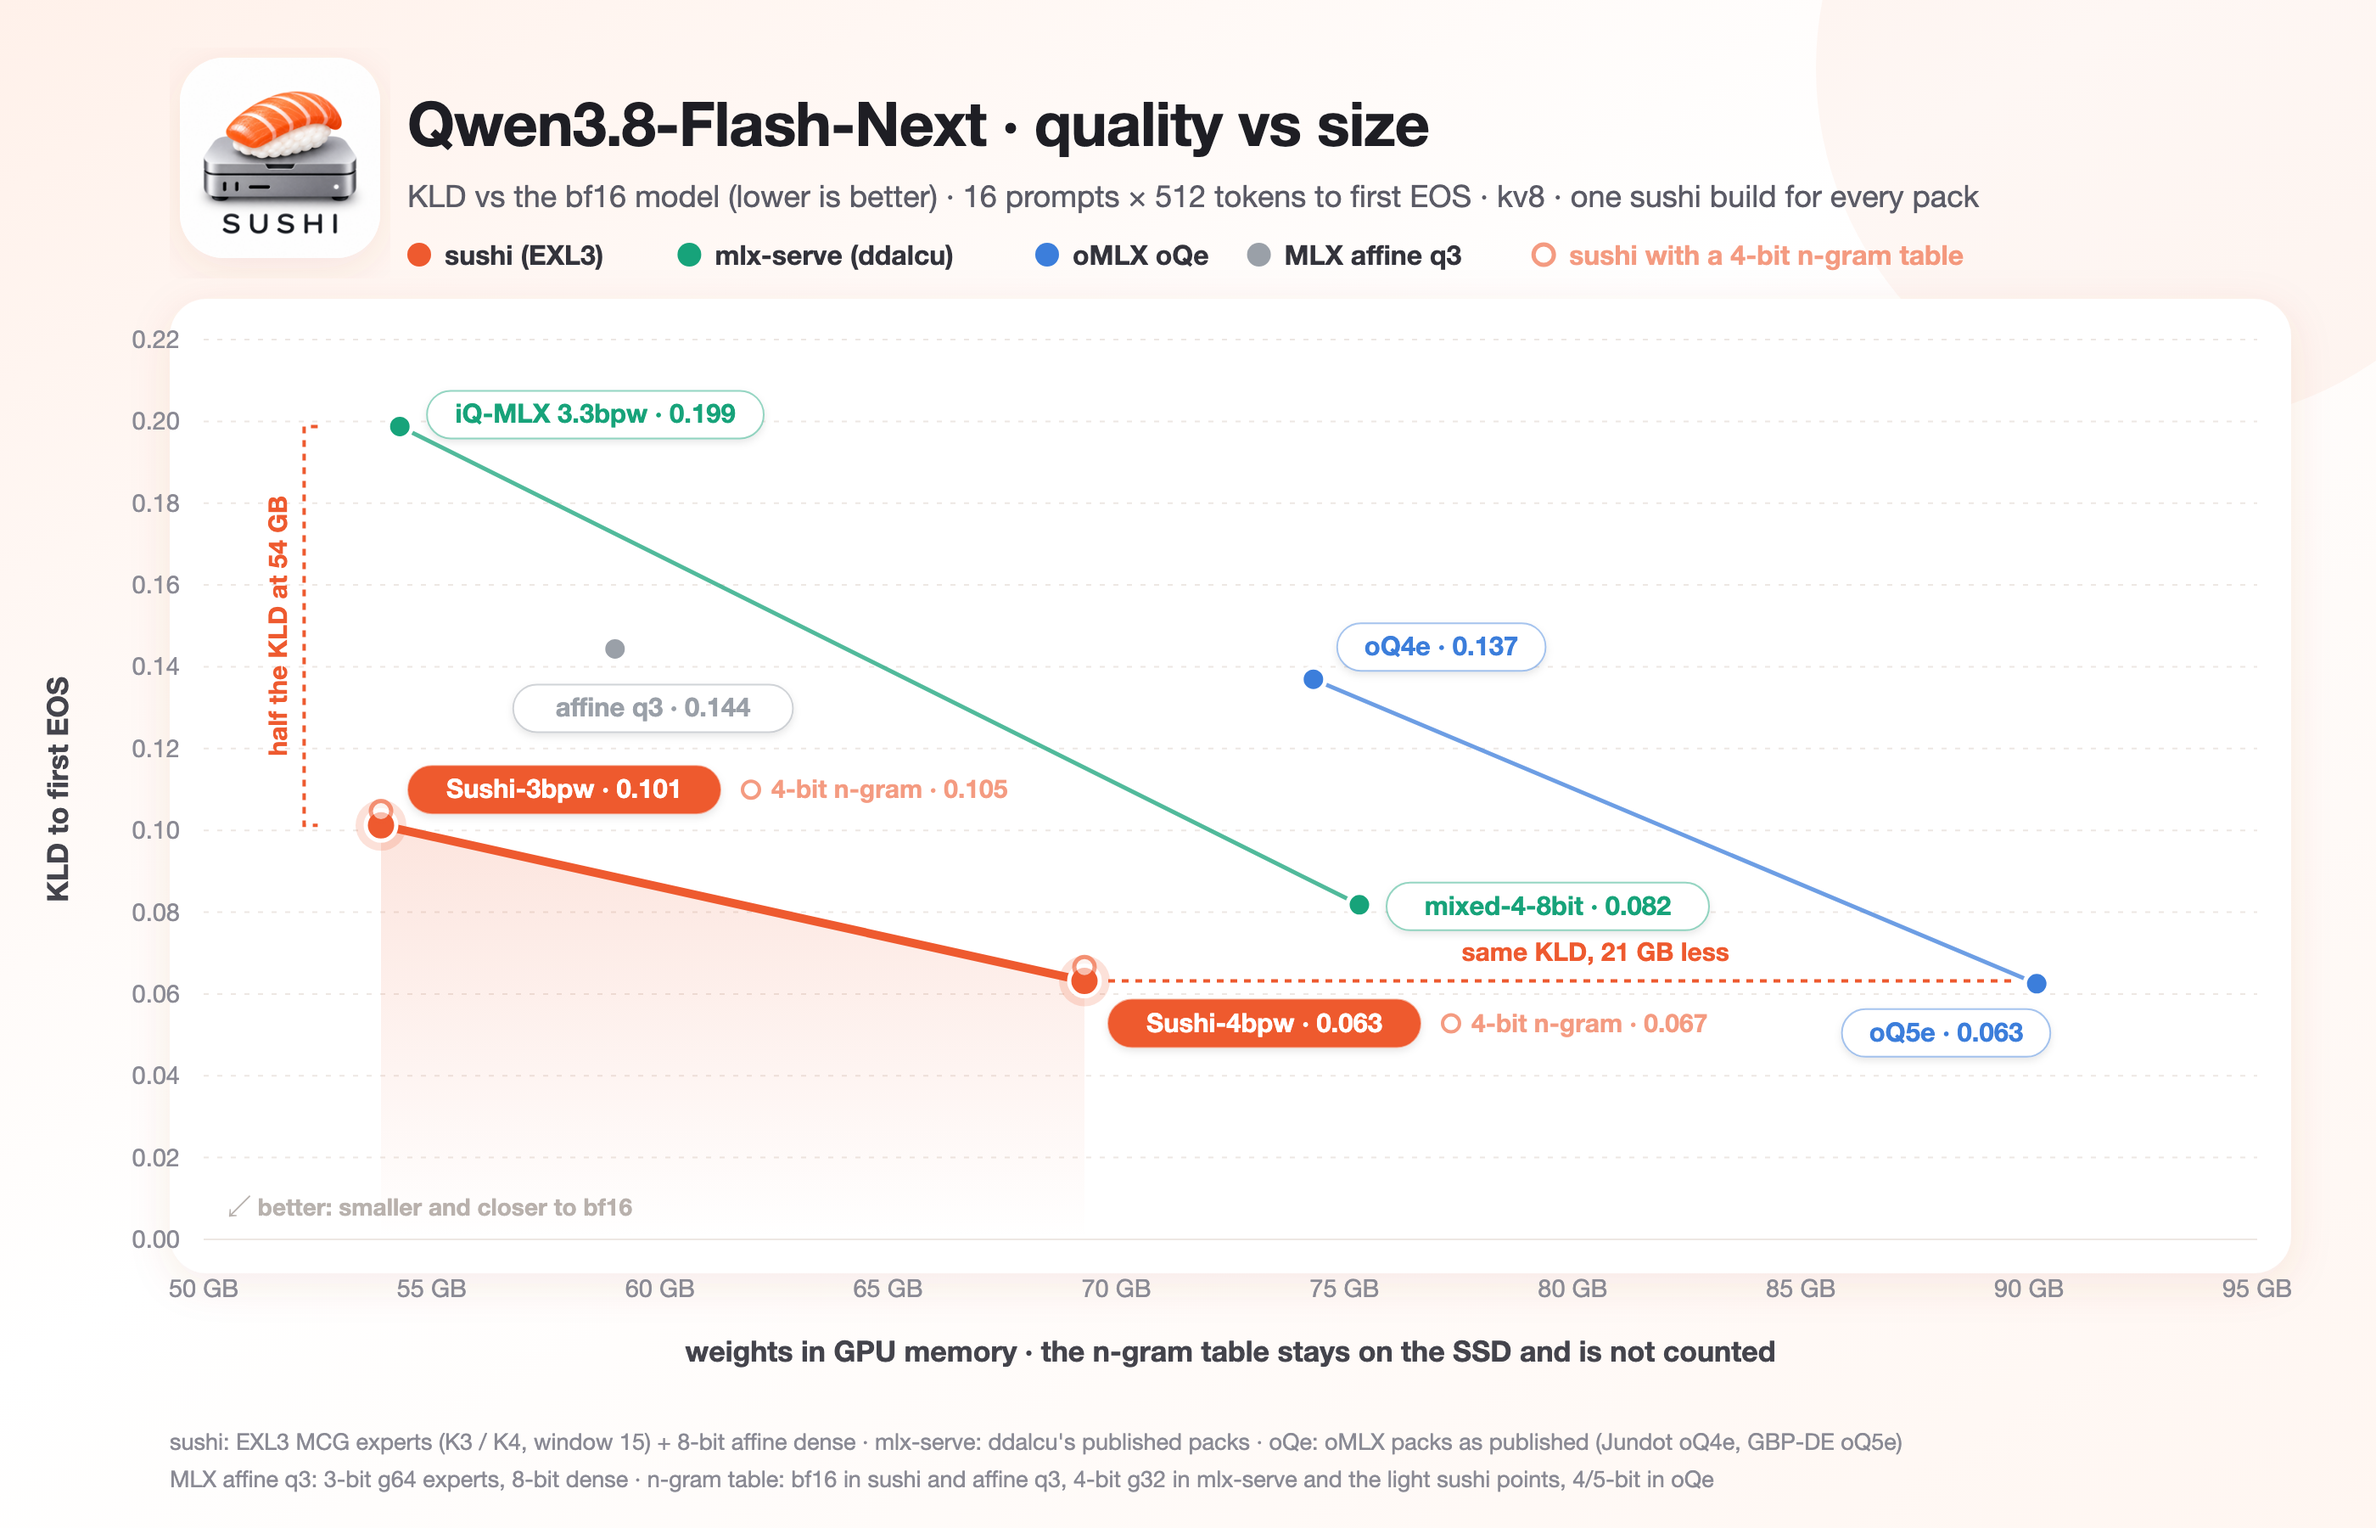
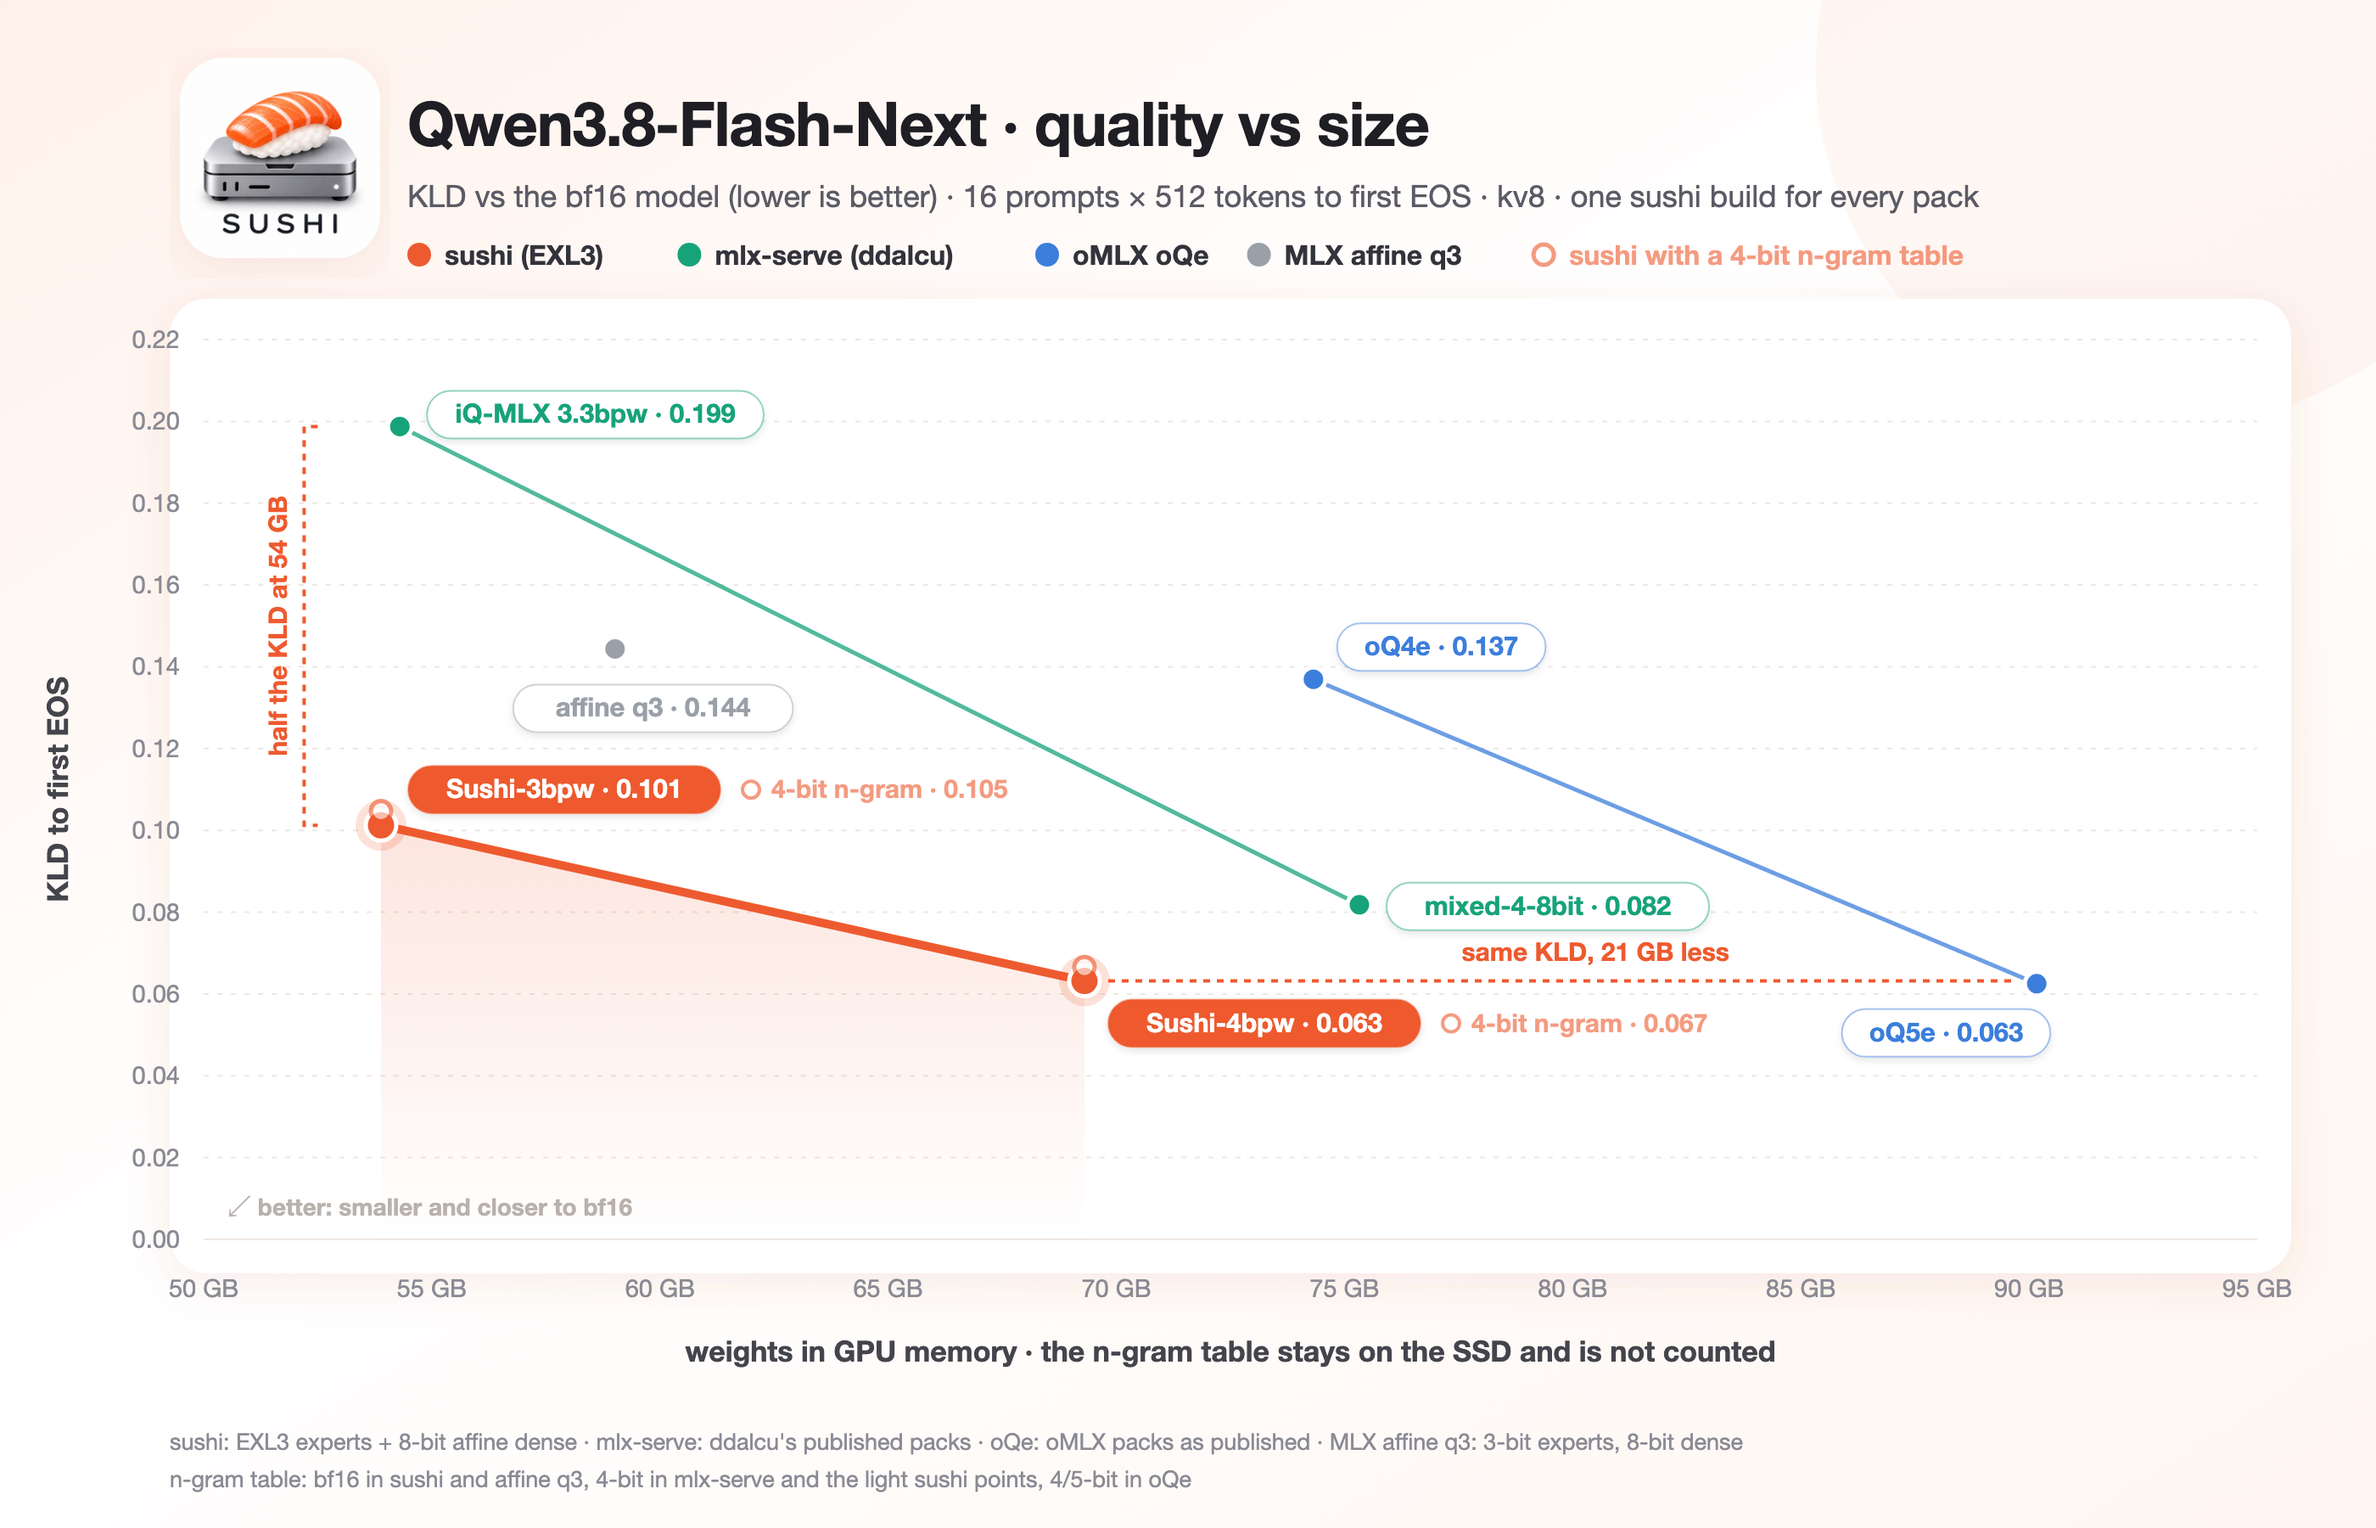
README and the v1.0.0 notes carry the llmprobe context-ladder chart; the KLD chart footnote is plainer

Changed region(s): [[0.0621, 0.9333, 0.8079, 0.9956]]

diff --git a/CHANGELOG.md b/CHANGELOG.md
@@ -6,6 +6,8 @@ earlier history is mlx-serve's, in that project's changelog.
 
 ## Unreleased
 
+![Sushi-3bpw decode, first token and prefill from 4k to 1M tokens on an M5 Max](https://raw.githubusercontent.com/beamivalice/sushi/main/docs/assets/perf-sushi3bpw-1m.png)
+
 - **Loading a model right after unloading one no longer fails for lack of memory**: the unload now answers once the freed memory is back.
 - **`/v1/models` reports the real `bytes_resident` of the model loaded at launch** (it read about 2 MB for a 64 GB pack), and loading a second model now counts the first one's weights against the resident-memory cap.
 - **MTP is on by default for both served models**: a request that does not send `enable_mtp` drafts with the model's own head, without `--mtp`; `--no-mtp`, `"mtp": false` in `model-settings.json` or `enable_mtp:false` turn it off, and an SSD-streamed pack keeps it off unless `--mtp`.

diff --git a/README.md b/README.md
@@ -62,6 +62,8 @@ with either pack). Numbers: [docs/quality-kld.md](docs/quality-kld.md).
 
 Sushi-3bpw on an M5 Max 128 GB: `--ctx-size 1048576 --kv-quant 8 --mtp`, llmprobe `--bench-only`, quiet box.
 
+<p align="center"><img src="docs/assets/perf-sushi3bpw-1m.png" alt="decode, first token and prefill vs context" width="100%"></p>
+
 | context | decode tok/s | prefill tok/s | first token | tokens per step |
 |---|---|---|---|---|
 | 4k | 96.1 | 1702 | 2.5 s | 3.37 |
